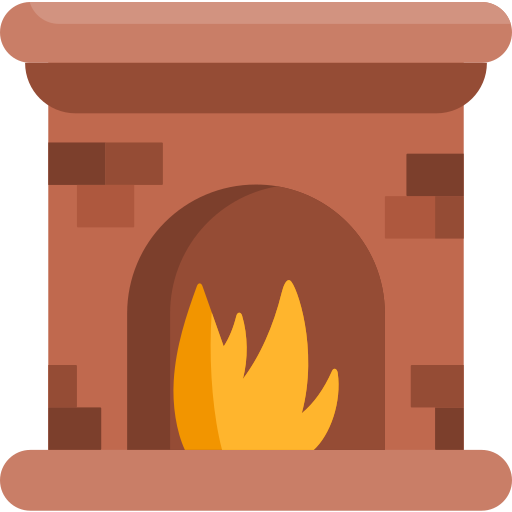
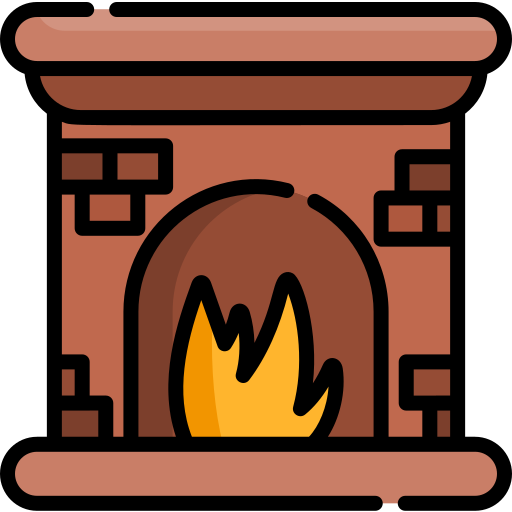
Create responsive website footer

diff --git a/frontend/src/components/Footer/Footer.jsx b/frontend/src/components/Footer/Footer.jsx
@@ -1,0 +1,73 @@
+import { NavLink } from "react-router-dom";
+import "./Footer.css";
+
+const quickLinks = [
+    { name: "Home", path: "/" },
+    { name: "Services", path: "/services" },
+    { name: "Gallery", path: "/gallery" },
+    { name: "About", path: "/about" },
+    { name: "Contact", path: "/contact" },
+];
+
+const services = [
+    "Modern Fireplaces",
+    "Outdoor Fireplaces",
+    "Marble Fireplaces",
+    "Gypsum Fireplaces",
+    "Custom Designs",
+];
+
+function Footer() {
+    return (
+        <footer className="footer">
+            <div className="footer-container">
+
+                <div className="footer-column">
+                    <h2>🔥 PlaceFire</h2>
+                    <p>
+                        Luxury fireplace design and installation for modern homes.
+                    </p>
+                </div>
+
+                <div className="footer-column">
+                    <h3>Quick Links</h3>
+
+                    {quickLinks.map((link) => (
+                        <NavLink key={link.path} to={link.path}>
+                            {link.name}
+                        </NavLink>
+                    ))}
+                </div>
+
+                <div className="footer-column">
+                    <h3>Services</h3>
+
+                    {services.map((service) => (
+                        <p key={service}>{service}</p>
+                    ))}
+                </div>
+
+                <div className="footer-column">
+                    <h3>Contact</h3>
+
+                    <p>�?️ Riyadh, Saudi Arabia</p>
+                    <a href="tel:[phone redacted]">📞 [phone redacted]</a>
+                    <a href="https://www.instagram.com/qpt8.8?igsh=dTE0ZHhpYnc4cnc%3D&utm_source=qr" target="_blank" rel="noopener noreferrer">
+                        📸 Instagram
+                    </a>
+                    <a href="https://wa.me/966541595401" target="_blank" rel="noopener noreferrer">
+                        💬 WhatsApp
+                    </a>
+
+                </div>
+
+            </div>
+
+            <div className="footer-bottom">
+                © 2026 PlaceFire. All Rights Reserved.
+            </div>
+        </footer>
+    );
+}
+
+export default Footer;

diff --git a/frontend/src/components/Footer/Footer.css b/frontend/src/components/Footer/Footer.css
@@ -1,0 +1,49 @@
+.footer {
+    background: #111;
+    color: white;
+    padding: 70px 8% 20px;
+}
+
+.footer-container {
+    display: grid;
+    grid-template-columns: repeat(4, 1fr);
+    gap: 40px;
+}
+
+.footer-column h2,
+.footer-column h3 {
+    color: #d89b3c;
+    margin-bottom: 20px;
+}
+
+.footer-column p,
+.footer-column a {
+    color: #ddd;
+    text-decoration: none;
+    display: block;
+    margin-bottom: 12px;
+}
+
+.footer-column a:hover {
+    color: #d89b3c;
+}
+
+.footer-bottom {
+    border-top: 1px solid #333;
+    margin-top: 50px;
+    padding-top: 20px;
+    text-align: center;
+    color: #999;
+}
+
+@media (max-width: 900px) {
+    .footer-container {
+        grid-template-columns: repeat(2, 1fr);
+    }
+}
+
+@media (max-width: 600px) {
+    .footer-container {
+        grid-template-columns: 1fr;
+    }
+}

diff --git a/frontend/src/components/Navbar.css b/frontend/src/components/Navbar.css
@@ -114,7 +114,7 @@
 
     color:white;
 
-    font-size:30px;
+    font-size:25px;
 
     cursor:pointer;
 
@@ -128,6 +128,10 @@
     .navbar__toggle{
 
         display:block;
+        margin-left: -50%;
+        margin-right: 4%;
+        background-color: #d89b3c;
+        border-radius: 30%;
 
     }
 

diff --git a/frontend/src/App.jsx b/frontend/src/App.jsx
@@ -7,7 +7,7 @@ import Services from "./pages/Services";
 import Gallery from "./pages/Gallery";
 import About from "./pages/About";
 import Contact from "./pages/Contact";
-
+import Footer from "./components/Footer/Footer";
 
 function App() {
 
@@ -28,6 +28,7 @@ function App() {
                 <Route path="/contact" element={<Contact />} />
 
             </Routes>
+            <Footer />
         </>
     );
 }

diff --git a/frontend/src/components/Navbar.jsx b/frontend/src/components/Navbar.jsx
@@ -17,7 +17,7 @@ function Navbar() {
 
                 {/* Logo */}
                 <div className="navbar__logo">
-                    <img src={icon_fireplace} alt="fireplace" width="40" height="40" />
+                    <img src={icon_fireplace} alt="fireplace" width="35" height="35" />
 
 
                 </div>